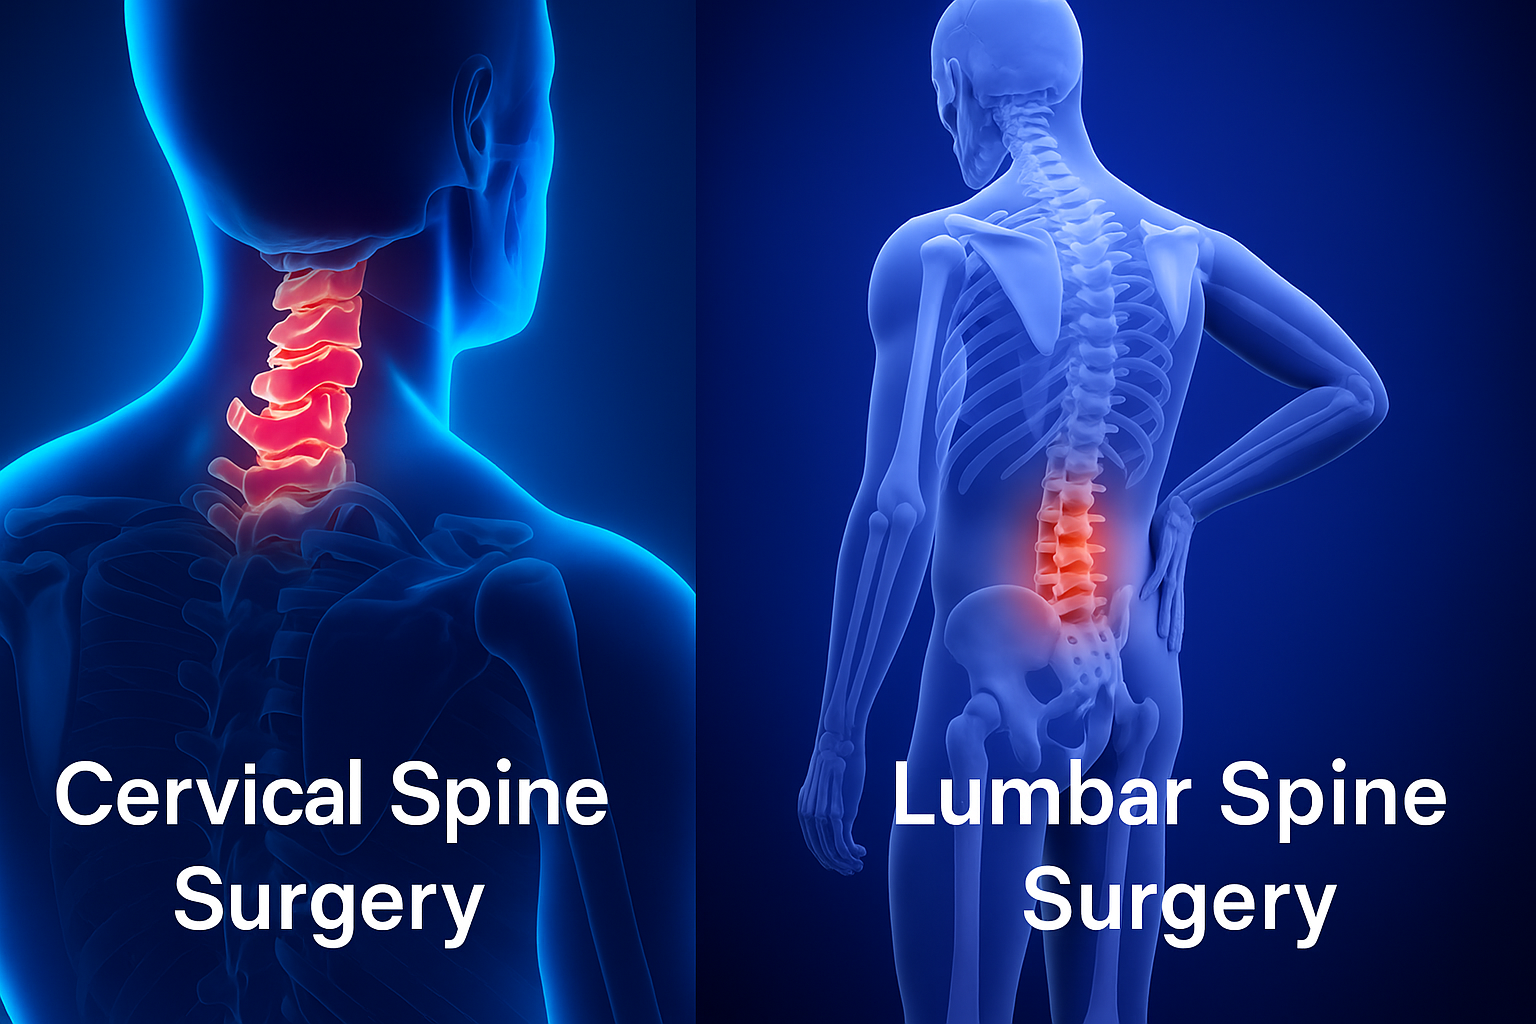
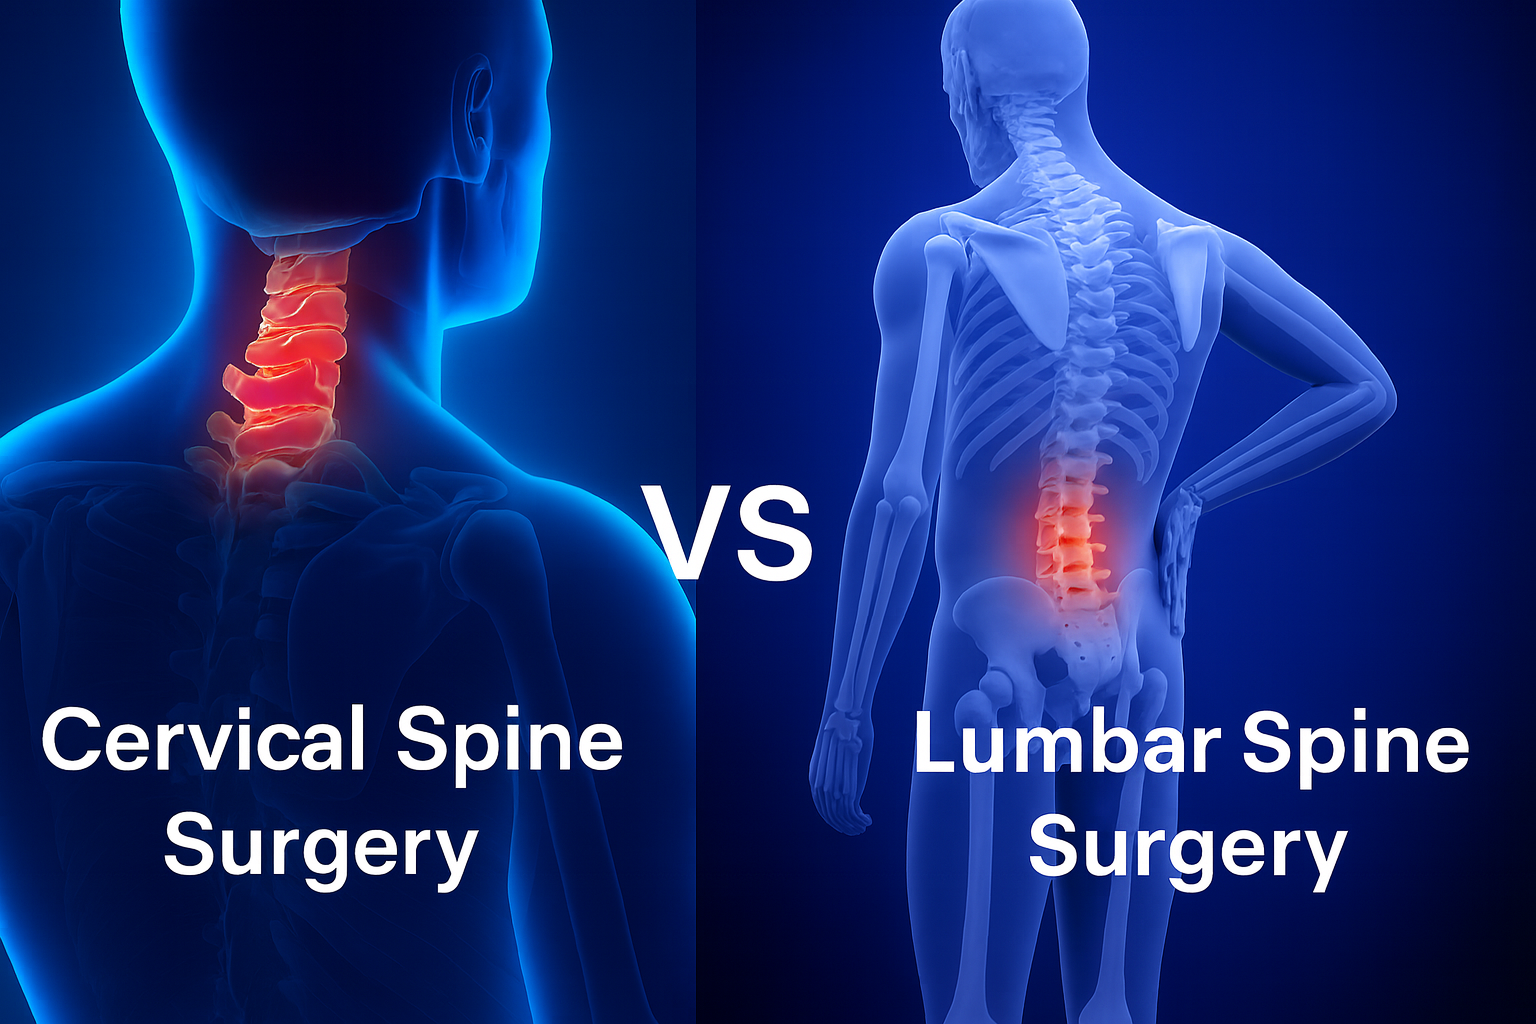
added the interlinks in pages

diff --git a/resources/views/blog/spine-surgery-cost-mumbai.blade.php b/resources/views/blog/spine-surgery-cost-mumbai.blade.php
@@ -99,14 +99,14 @@ Understand spine surgery costs in Mumbai: factors affecting pricing, insurance c
                             <div class="sec-blog-design pt-5">
                                 <h1>Spine Surgery Cost in Mumbai – What Patients Should Know</h1>
                                 <img src="{{ asset('resources/assets/img/blog/spine-surgery-cost-mumbai.png') }}" alt="Spine Surgery Cost in Mumbai">
-                                <p>Understanding the cost of spine surgery is crucial for patients and their families when making informed healthcare decisions. In Mumbai, spine surgery costs can vary significantly based on several factors. This guide provides comprehensive information about spine surgery pricing, what influences costs, and how to access affordable, world-class spine care with Dr. Vishal Kundnani.</p>
+                                <p>Understanding the cost of spine surgery is crucial for patients and their families when making informed healthcare decisions. In Mumbai, spine surgery costs can vary significantly based on several factors. This guide provides comprehensive information about spine surgery pricing, what influences costs, and how to access affordable, world-class spine care with <a href="{{ route('about-doctor') }}">Dr. Vishal Kundnani</a>.</p>
                             </div>
                         </div>
 
                         <div class="sec-blog-design pt-5">
                             <h2>Factors Affecting Spine Surgery Cost in Mumbai</h2>
                             <p>The cost of spine surgery in Mumbai depends on multiple factors:</p>
-                            <p><b>Type of Surgery:</b> Minimally invasive procedures, endoscopic surgery, robotic-assisted surgery, and traditional open surgery have different cost structures.</p>
+                            <p><b>Type of Surgery:</b> <a href="{{ route('minimally-invasive-spine-surgery-mumbai') }}">Minimally invasive procedures</a>, <a href="{{ route('endoscopic-spine-surgery-mumbai') }}">endoscopic surgery</a>, robotic-assisted surgery, and traditional open surgery have different cost structures.</p>
                             <p><b>Hospital Facilities:</b> Premium hospitals with advanced technology and infrastructure may have higher costs but offer superior care and outcomes.</p>
                             <p><b>Surgeon's Expertise:</b> Experienced spine surgeons with specialized training may command higher fees, but their expertise often leads to better outcomes and fewer complications.</p>
                             <p><b>Implants and Equipment:</b> The type of implants, screws, rods, or artificial discs used can significantly impact the total cost.</p>
@@ -116,12 +116,12 @@ Understand spine surgery costs in Mumbai: factors affecting pricing, insurance c
 
                         <div class="sec-blog-design pt-5">
                             <h2>Types of Spine Surgery and Their Cost Range</h2>
-                            <p><b>Minimally Invasive Spine Surgery:</b> These procedures use smaller incisions and advanced technology. While the initial cost may be similar to traditional surgery, patients benefit from shorter hospital stays and faster recovery, potentially reducing overall expenses.</p>
-                            <p><b>Endoscopic Spine Surgery:</b> A highly advanced technique that minimizes tissue damage. Costs are competitive and often offset by reduced recovery time.</p>
+                            <p><b><a href="{{ route('minimally-invasive-spine-surgery-mumbai') }}">Minimally Invasive Spine Surgery</a>:</b> These procedures use smaller incisions and advanced technology. While the initial cost may be similar to traditional surgery, patients benefit from shorter hospital stays and faster recovery, potentially reducing overall expenses.</p>
+                            <p><b><a href="{{ route('endoscopic-spine-surgery-mumbai') }}">Endoscopic Spine Surgery</a>:</b> A highly advanced technique that minimizes tissue damage. Costs are competitive and often offset by reduced recovery time.</p>
                             <p><b>Robotic Spine Surgery:</b> Uses precision robotics for enhanced accuracy. Initial costs may be higher, but precision reduces risks and improves outcomes.</p>
-                            <p><b>Scoliosis Surgery:</b> Complex procedures requiring specialized implants and longer surgery time, typically at a higher cost range.</p>
-                            <p><b>Slip Disc Surgery:</b> Can range from minimally invasive discectomy to complex fusion procedures, with costs varying accordingly.</p>
-                            <p><b>Cervical Spine Surgery:</b> Includes ACDF, disc replacement, or decompression procedures, with costs depending on the complexity.</p>
+                            <p><b><a href="{{ route('scoliosis') }}">Scoliosis Surgery</a>:</b> Complex procedures requiring specialized implants and longer surgery time, typically at a higher cost range.</p>
+                            <p><b><a href="{{ route('herniated-disc') }}">Slip Disc Surgery</a>:</b> Can range from minimally invasive discectomy to complex fusion procedures, with costs varying accordingly.</p>
+                            <p><b><a href="{{ route('cervical-spine-surgery-mumbai') }}">Cervical Spine Surgery</a>:</b> Includes ACDF, disc replacement, or decompression procedures, with costs depending on the complexity.</p>
                         </div>
 
                         <div class="sec-blog-design pt-5">
@@ -136,7 +136,7 @@ Understand spine surgery costs in Mumbai: factors affecting pricing, insurance c
 
                         <div class="sec-blog-design pt-5">
                             <h2>Affordable Spine Surgery Options</h2>
-                            <p>Dr. Vishal Kundnani provides transparent pricing and affordable spine surgery packages in Mumbai. We offer:</p>
+                            <p><a href="{{ route('about-doctor') }}">Dr. Vishal Kundnani</a> provides transparent pricing and affordable spine surgery packages in Mumbai. We offer:</p>
                             <p><b>Transparent Cost Estimates:</b> Detailed cost breakdowns before treatment, with no hidden charges.</p>
                             <p><b>Comprehensive Packages:</b> All-inclusive packages covering surgery, hospital stay, implants, and follow-up care.</p>
                             <p><b>Flexible Payment Options:</b> EMI facilities and payment plans to make treatment accessible.</p>
@@ -183,8 +183,8 @@ Understand spine surgery costs in Mumbai: factors affecting pricing, insurance c
 
                         <div class="sec-blog-design pt-5">
                             <h2>How to Book a Consultation</h2>
-                            <p>If you're considering spine surgery and want to understand the costs involved, schedule a consultation with Dr. Vishal Kundnani.</p>
-                            <p>📞 Call <a href="tel:[phone redacted]">[phone redacted]</a> today to discuss your condition and receive a personalized cost estimate.</p>
+                            <p>If you're considering spine surgery and want to understand the costs involved, schedule a consultation with <a href="{{ route('about-doctor') }}">Dr. Vishal Kundnani</a>.</p>
+                            <p>📞 Call <a href="tel:[phone redacted]">[phone redacted]</a> today – <a href="{{ route('contact') }}">Consult Dr. Vishal Kundnani</a> to discuss your condition and receive a personalized cost estimate.</p>
                         </div>
 
                         <div class="sec-blog-design pt-5">

diff --git a/resources/views/blog/best-hospital-spine-surgery-mumbai.blade.php b/resources/views/blog/best-hospital-spine-surgery-mumbai.blade.php
@@ -124,7 +124,7 @@ Looking for top spine surgery hospitals in Mumbai? Dr. Vishal Kundnani offers ad
                                 <h1>Best Hospital for Spine Surgery in Mumbai – Bombay Hospital & Lilavati Hospital</h1>
                                 <img class="blog-hero-img" src="{{ asset('resources/assets/img/blog/spine-surgery-international-patients-miss.jpg') }}" alt="Best Hospital for Spine Surgery in Mumbai">
                                 <p>Choosing the right hospital for spine surgery is crucial—experienced surgeons, advanced technology, and comprehensive post-operative care significantly impact outcomes. Lilavati Hospital and Bombay Hospital are two of the most trusted centers for world-class spine surgery in Mumbai, offering cutting-edge treatments, modern infrastructure, and highly trained spine specialists.</p>
-                                <p>Dr. Vishal Kundnani, Director & Head of Spine Services at Lilavati & Bombay Hospitals, leads specialized teams delivering safe, precise, and advanced spine care to patients across India.</p>
+                                <p><a href="{{ route('about-doctor') }}">Dr. Vishal Kundnani</a>, Director & Head of Spine Services at Lilavati & Bombay Hospitals, leads specialized teams delivering safe, precise, and advanced spine care to patients across India.</p>
                                 <p>Patients from Mumbai, Delhi, Pune, Nashik, Aurangabad, Thane, Navi Mumbai, Raipur, Indore, Bhopal, Jaipur, and international regions seek treatment under his expertise.</p>
                             </div>
                         </div>
@@ -145,11 +145,11 @@ Looking for top spine surgery hospitals in Mumbai? Dr. Vishal Kundnani offers ad
                             <h3>2. Specialized Spine Units</h3>
                             <p>Dedicated units for:</p>
                             <ul class="icon-bullet-list">
-                                <li>Herniated discs</li>
-                                <li>Spinal stenosis</li>
-                                <li>Scoliosis & kyphosis</li>
-                                <li>Cervical spine disorders</li>
-                                <li>Minimally invasive spine surgery (MISS)</li>
+                                <li><a href="{{ route('herniated-disc') }}">Herniated discs</a></li>
+                                <li><a href="{{ route('spinal-stenosis') }}">Spinal stenosis</a></li>
+                                <li><a href="{{ route('scoliosis') }}">Scoliosis</a> & kyphosis</li>
+                                <li><a href="{{ route('cervical-spine-surgery-mumbai') }}">Cervical spine</a> disorders</li>
+                                <li><a href="{{ route('minimally-invasive-spine-surgery-mumbai') }}">Minimally invasive spine surgery</a> (MISS)</li>
                             </ul>
                             <p>A multidisciplinary team ensures seamless care—from diagnosis to recovery.</p>
 
@@ -200,7 +200,7 @@ Looking for top spine surgery hospitals in Mumbai? Dr. Vishal Kundnani offers ad
                                 <li>Accessible locations and patient assistance services</li>
                             </ul>
                             <p>With personalized clinics in South Mumbai, Bandra, Goregaon & Borivali, consultations are convenient and patient-focused.</p>
-                            <p><b>📞 Call <a href="tel:[phone redacted]">[phone redacted]</a> – Consult Dr. Vishal Kundnani, top spine surgeon in Mumbai & India.</b></p>
+                            <p><b>📞 Call <a href="tel:[phone redacted]">[phone redacted]</a> – <a href="{{ route('contact') }}">Consult Dr. Vishal Kundnani</a>, top spine surgeon in Mumbai & India.</b></p>
                         </div>
 
                         <div class="sec-blog-design pt-5">

diff --git a/resources/views/blog/endoscopic-spine-surgery-mumbai.blade.php b/resources/views/blog/endoscopic-spine-surgery-mumbai.blade.php
@@ -115,9 +115,9 @@ Endoscopic spine surgery in Mumbai by Dr. Vishal Kundnani – minimally invasive
                             <div class="sec-blog-design pt-5">
                                 <h1>Endoscopic Spine Surgery in Mumbai – Benefits & Success Rate</h1>
                                 <img class="blog-hero-img" src="{{ asset('resources/assets/img/blog/endoscopic-spine-surgery.png') }}" alt="Endoscopic Spine Surgery in Mumbai">
-                                <p>Endoscopic spine surgery is one of the most advanced minimally invasive techniques used to treat herniated discs, spinal stenosis, and nerve compression. Through a tiny incision, a high-definition camera and specialized instruments allow surgeons to access the damaged area with minimal muscle disruption.</p>
+                                <p><a href="{{ route('endoscopic-spine-surgery-mumbai') }}">Endoscopic spine surgery</a> is one of the most advanced <a href="{{ route('minimally-invasive-spine-surgery-mumbai') }}">minimally invasive techniques</a> used to treat <a href="{{ route('herniated-disc') }}">herniated discs</a>, <a href="{{ route('spinal-stenosis') }}">spinal stenosis</a>, and nerve compression. Through a tiny incision, a high-definition camera and specialized instruments allow surgeons to access the damaged area with minimal muscle disruption.</p>
                                 <p>This modern technique offers less pain, faster recovery, smaller scars, and quicker return to routine activities compared to traditional open surgery. With robotic navigation and precision imaging, endoscopic procedures deliver excellent long-term outcomes and a high success rate.</p>
-                                <p>Dr. Vishal Kundnani, a leading expert in endoscopic spine surgery, provides advanced, safe, and effective treatments across Mumbai's top hospitals.</p>
+                                <p><a href="{{ route('about-doctor') }}">Dr. Vishal Kundnani</a>, a leading expert in endoscopic spine surgery, provides advanced, safe, and effective treatments across Mumbai's top hospitals.</p>
                             </div>
                         </div>
 
@@ -125,10 +125,10 @@ Endoscopic spine surgery in Mumbai by Dr. Vishal Kundnani – minimally invasive
                             <h2>🔍 What Conditions Can Endoscopic Spine Surgery Treat?</h2>
                             <p>Endoscopic techniques are ideal for:</p>
                             <ul class="icon-bullet-list">
-                                <li>Herniated or slipped discs</li>
-                                <li>Sciatica or nerve root compression</li>
-                                <li>Lumbar canal stenosis</li>
-                                <li>Cervical radiculopathy</li>
+                                <li><a href="{{ route('herniated-disc') }}">Herniated or slipped discs</a></li>
+                                <li><a href="{{ route('sciatica') }}">Sciatica</a> or nerve root compression</li>
+                                <li><a href="{{ route('back-pain') }}">Lumbar</a> canal stenosis</li>
+                                <li><a href="{{ route('cervical-spine-surgery-mumbai') }}">Cervical</a> radiculopathy</li>
                                 <li>Recurrent disc prolapse</li>
                                 <li>Foraminal stenosis</li>
                             </ul>
@@ -179,7 +179,7 @@ Endoscopic spine surgery in Mumbai by Dr. Vishal Kundnani – minimally invasive
                                 <li>Clinics across South Mumbai, Bandra, Goregaon & Borivali</li>
                                 <li>Director & Head of Spine Services at Lilavati & Bombay Hospitals</li>
                             </ul>
-                            <p><b>📞 Call <a href="tel:[phone redacted]">[phone redacted]</a> – Consult Dr. Vishal Kundnani, best endoscopic spine surgeon in Mumbai & India.</b></p>
+                            <p><b>📞 Call <a href="tel:[phone redacted]">[phone redacted]</a> – <a href="{{ route('contact') }}">Consult Dr. Vishal Kundnani</a>, best endoscopic spine surgeon in Mumbai & India.</b></p>
                         </div>
 
                         <div class="sec-blog-design pt-5">

diff --git a/resources/views/blog/cervical-vs-lumbar-spine-surgery.blade.php b/resources/views/blog/cervical-vs-lumbar-spine-surgery.blade.php
@@ -124,9 +124,9 @@ Cervical vs lumbar spine surgery explained by Dr. Vishal Kundnani – minimally 
                                 <h1>Cervical vs Lumbar Spine Surgery – What Patients Must Know</h1>
                                 <img class="blog-hero-img" src="{{ asset('resources/assets/img/blog/cervical-vs-lumbar-spine-surgery.png') }}" alt="Cervical vs Lumbar Spine Surgery">
                                 <p>Cervical and lumbar spine surgeries address different regions of the spine—each with unique symptoms, surgical approaches, and recovery expectations. Understanding these differences helps patients make informed decisions and plan their treatment journey.</p>
-                                <p>Cervical spine surgery treats conditions affecting the neck, such as disc herniation, nerve compression, or cervical spondylosis.</p>
-                                <p>Lumbar spine surgery addresses lower back conditions like herniated discs, spinal stenosis, and sciatica.</p>
-                                <p>Dr. Vishal Kundnani, a leading spine surgeon in India, specializes in both cervical and lumbar procedures using minimally invasive and robotic-assisted techniques for safer, more precise outcomes.</p>
+                                <p><a href="{{ route('cervical-spine-surgery-mumbai') }}">Cervical spine surgery</a> treats conditions affecting the neck, such as disc herniation, nerve compression, or cervical spondylosis.</p>
+                                <p><a href="{{ route('back-pain') }}">Lumbar spine surgery</a> addresses lower back conditions like herniated discs, spinal stenosis, and sciatica.</p>
+                                <p><a href="{{ route('about-doctor') }}">Dr. Vishal Kundnani</a>, a leading spine surgeon in India, specializes in both cervical and lumbar procedures using minimally invasive and robotic-assisted techniques for safer, more precise outcomes.</p>
                             </div>
                         </div>
 
@@ -245,11 +245,11 @@ Cervical vs lumbar spine surgery explained by Dr. Vishal Kundnani – minimally 
                                 <li>Clinics in South Mumbai, Bandra, Goregaon, Borivali</li>
                                 <li>Director & Head of Spine Services at Lilavati & Bombay Hospitals</li>
                             </ul>
-                            <p><b>📞 Call <a href="tel:[phone redacted]">[phone redacted]</a> – Consult Dr. Vishal Kundnani, top spine surgeon in Mumbai & India.</b></p>
+                            <p><b>📞 Call <a href="tel:[phone redacted]">[phone redacted]</a> – <a href="{{ route('contact') }}">Consult Dr. Vishal Kundnani</a>, top spine surgeon in Mumbai & India.</b></p>
                         </div>
 
                         <div class="sec-blog-design pt-5">
-                            <h2> FAQ – Cervical vs Lumbar Spine Surgery</h2>
+                            <h2>FAQ – Cervical vs Lumbar Spine Surgery</h2>
                             <ol class="pl-2">
                                 <li><b>What is the difference between cervical and lumbar spine surgery?</b> <br> Cervical surgery treats neck-related conditions, while lumbar surgery focuses on lower back and leg pain.</li>
                                 <li><b>Which surgery has faster recovery?</b> <br> Recovery depends on the procedure, but minimally invasive cervical surgeries often have quicker recovery times.</li>

diff --git a/resources/views/blog/spine-surgery-recovery-time.blade.php b/resources/views/blog/spine-surgery-recovery-time.blade.php
@@ -131,8 +131,8 @@ Spine surgery recovery explained by Dr. Vishal Kundnani – fast recovery with m
                             <div class="sec-blog-design pt-5">
                                 <h1>Spine Surgery Recovery Time – What Patients Can Expect</h1>
                                 <img class="blog-hero-img" src="{{ asset('resources/assets/img/blog/spine-surgery-recovery-time2.png') }}" alt="Spine Surgery Recovery Time">
-                                <p>Spine surgery recovery varies depending on the type of procedure, overall health, age, and the severity of the condition. With advancements in minimally invasive spine surgery (MISS) and robotic-assisted techniques, many patients now experience significantly faster and smoother recovery than ever before.</p>
-                                <p>Dr. Vishal Kundnani ensures customized post-operative care plans that help patients regain mobility safely and return to daily activities with confidence.</p>
+                                <p>Spine surgery recovery varies depending on the type of procedure, overall health, age, and the severity of the condition. With advancements in <a href="{{ route('minimally-invasive-spine-surgery-mumbai') }}">minimally invasive spine surgery</a> (MISS) and robotic-assisted techniques, many patients now experience significantly faster and smoother recovery than ever before.</p>
+                                <p><a href="{{ route('about-doctor') }}">Dr. Vishal Kundnani</a> ensures customized post-operative care plans that help patients regain mobility safely and return to daily activities with confidence.</p>
                                 <p>Understanding expected recovery timelines helps patients prepare for work, home responsibilities, physiotherapy, and follow-up visits.</p>
                             </div>
                         </div>
@@ -197,7 +197,7 @@ Spine surgery recovery explained by Dr. Vishal Kundnani – fast recovery with m
 
                         <div class="sec-blog-design pt-5">
                             <h2>🏥 Post-Operative Care & Rehabilitation</h2>
-                            <p>Dr. Vishal Kundnani's structured recovery program includes:</p>
+                            <p><a href="{{ route('about-doctor') }}">Dr. Vishal Kundnani</a>'s structured recovery program includes:</p>
                             <ul class="icon-bullet-list">
                                 <li>Early mobility plans</li>
                                 <li>Pain management</li>
@@ -207,7 +207,7 @@ Spine surgery recovery explained by Dr. Vishal Kundnani – fast recovery with m
                                 <li>Scheduled follow-up evaluations</li>
                             </ul>
                             <p>Patients receive care across Lilavati, Bombay, Breach Candy & Saifee Hospitals, with consultation clinics located in South Mumbai, Bandra, Goregaon, and Borivali.</p>
-                            <p><b>📞 Call <a href="tel:[phone redacted]">[phone redacted]</a> – Consult Dr. Vishal Kundnani, best spine surgeon in Mumbai & India.</b></p>
+                            <p><b>📞 Call <a href="tel:[phone redacted]">[phone redacted]</a> – <a href="{{ route('contact') }}">Consult Dr. Vishal Kundnani</a>, best spine surgeon in Mumbai & India.</b></p>
                         </div>
 
                         <div class="sec-blog-design pt-5">
@@ -232,7 +232,7 @@ Spine surgery recovery explained by Dr. Vishal Kundnani – fast recovery with m
                                 <li><b>When can I return to work after spine surgery?</b> <br> Light office work: 1–2 weeks. Physically demanding work: 6–12 weeks, depending on your procedure.</li>
                                 <li><b>Does robotic spine surgery improve recovery?</b> <br> Yes. Accuracy and reduced tissue trauma result in faster, safer healing.</li>
                                 <li><b>Where can I get post-operative care?</b> <br> At Lilavati, Bombay, Breach Candy, Saifee Hospitals, and clinics in South Mumbai, Bandra, Goregaon, Borivali.</li>
-                                <li><b>How do I book a consultation with Dr. Vishal Kundnani?</b> <br>📞 Call <a href="tel:[phone redacted]">[phone redacted]</a> for a complete evaluation and recovery planning.</li>
+                                <li><b>How do I book a consultation with <a href="{{ route('about-doctor') }}">Dr. Vishal Kundnani</a>?</b> <br>📞 Call <a href="tel:[phone redacted]">[phone redacted]</a> for a complete evaluation and recovery planning.</li>
                             </ol>
                         </div>
 

diff --git a/resources/views/blog/minimally-invasive-vs-open-spine-surgery.blade.php b/resources/views/blog/minimally-invasive-vs-open-spine-surgery.blade.php
@@ -131,8 +131,8 @@ Compare minimally invasive vs open spine surgery in India with Dr. Vishal Kundna
                             <div class="sec-blog-design pt-5">
                                 <h1>Minimally Invasive Spine Surgery vs Open Surgery – Which Is Better?</h1>
                                 <img class="blog-hero-img" src="{{ asset('resources\assets\img\blog\open-spine-surgery.png') }}" alt="Minimally Invasive vs Open Spine Surgery">
-                                <p>Spine surgery has advanced significantly over the last decade, giving patients safer, less painful, and faster recovery options. The two main approaches are Minimally Invasive Spine Surgery (MISS) and Open Spine Surgery. While MISS uses small incisions and targets damaged areas with minimal disruption, open surgery involves larger cuts and wider exposure of the spine.</p>
-                                <p>Dr. Vishal Kundnani, one of India's leading spine surgeons, offers both MISS and open spine surgery, selecting the most appropriate technique based on each patient's condition, spine anatomy, and long-term expectations.</p>
+                                <p>Spine surgery has advanced significantly over the last decade, giving patients safer, less painful, and faster recovery options. The two main approaches are <a href="{{ route('minimally-invasive-spine-surgery-mumbai') }}">Minimally Invasive Spine Surgery</a> (MISS) and Open Spine Surgery. While MISS uses small incisions and targets damaged areas with minimal disruption, open surgery involves larger cuts and wider exposure of the spine.</p>
+                                <p><a href="{{ route('about-doctor') }}">Dr. Vishal Kundnani</a>, one of India's leading spine surgeons, offers both MISS and open spine surgery, selecting the most appropriate technique based on each patient's condition, spine anatomy, and long-term expectations.</p>
                             </div>
                         </div>
 
@@ -149,7 +149,7 @@ Compare minimally invasive vs open spine surgery in India with Dr. Vishal Kundna
                                 <li>Reduced risk of infection</li>
                                 <li>Early return to routine activities</li>
                             </ul>
-                            <p>MISS is highly effective for conditions such as herniated discs, spinal stenosis, spondylolisthesis, scoliosis (selected cases), and nerve compression.</p>
+                            <p>MISS is highly effective for conditions such as <a href="{{ route('herniated-disc') }}">herniated discs</a>, <a href="{{ route('spinal-stenosis') }}">spinal stenosis</a>, spondylolisthesis, <a href="{{ route('scoliosis') }}">scoliosis</a> (selected cases), and nerve compression.</p>
                         </div>
 
                         <div class="sec-blog-design pt-5">
@@ -210,7 +210,7 @@ Compare minimally invasive vs open spine surgery in India with Dr. Vishal Kundna
                                 <li>Clinics in South Mumbai, Bandra, Goregaon & Borivali</li>
                                 <li>Director & Head of Spine Services at Lilavati & Bombay Hospitals</li>
                             </ul>
-                            <p><b>📞 Call <a href="tel:[phone redacted]">[phone redacted]</a> – Consult Dr. Vishal Kundnani, best spine surgeon in India.</b></p>
+                            <p><b>📞 Call <a href="tel:[phone redacted]">[phone redacted]</a> – <a href="{{ route('contact') }}">Consult Dr. Vishal Kundnani</a>, best spine surgeon in India.</b></p>
                         </div>
 
                         <div class="sec-blog-design pt-5">

diff --git a/resources/views/blog/cervical-disc-disease-treatment-india.blade.php b/resources/views/blog/cervical-disc-disease-treatment-india.blade.php
@@ -131,8 +131,8 @@ Cervical disc disease & neck pain treatment in India by Dr. Vishal Kundnani – 
                             <div class="sec-blog-design pt-5">
                                 <h1>Neck Pain & Cervical Disc Disease – Best Treatment in India</h1>
                                 <img class="blog-hero-img" src="{{ asset('resources/assets/img/blog/neck-pain2.jpg') }}" alt="Neck Pain & Cervical Disc Disease Treatment in India">
-                                <p>Neck pain is one of the most common spine-related problems affecting adults of all ages. It may result from cervical disc degeneration, disc herniation, nerve compression, or age-related spinal changes. Symptoms often include stiffness, radiating arm pain, tingling, numbness, or weakness. Early evaluation helps identify the exact cause and prevents long-term complications.</p>
-                                <p>Dr. Vishal Kundnani, one of India's leading cervical spine specialists, offers advanced non-surgical and minimally invasive treatments for cervical disc disease and chronic neck pain. His expertise, combined with precision technology, ensures safe, effective, and long-lasting relief for patients across India.</p>
+                                <p>Neck pain is one of the most common spine-related problems affecting adults of all ages. It may result from <a href="{{ route('cervical-spine-surgery-mumbai') }}">cervical</a> disc degeneration, disc herniation, nerve compression, or age-related spinal changes. Symptoms often include stiffness, radiating arm pain, tingling, numbness, or weakness. Early evaluation helps identify the exact cause and prevents long-term complications.</p>
+                                <p><a href="{{ route('about-doctor') }}">Dr. Vishal Kundnani</a>, one of India's leading cervical spine specialists, offers advanced non-surgical and <a href="{{ route('minimally-invasive-spine-surgery-mumbai') }}">minimally invasive treatments</a> for cervical disc disease and chronic neck pain. His expertise, combined with precision technology, ensures safe, effective, and long-lasting relief for patients across India.</p>
                             </div>
                         </div>
 
@@ -217,7 +217,7 @@ Cervical disc disease & neck pain treatment in India by Dr. Vishal Kundnani – 
                                 <li>Personal clinics in South Mumbai, Bandra, Goregaon & Borivali</li>
                                 <li>Director & Head of Spine Services at Lilavati & Bombay Hospitals</li>
                             </ul>
-                            <p><b>📞 Call <a href="tel:[phone redacted]">[phone redacted]</a> – Consult Dr. Vishal Kundnani, top cervical spine specialist in India.</b></p>
+                            <p><b>📞 Call <a href="tel:[phone redacted]">[phone redacted]</a> – <a href="{{ route('contact') }}">Consult Dr. Vishal Kundnani</a>, top cervical spine specialist in India.</b></p>
                         </div>
 
                         <div class="sec-blog-design pt-5">

diff --git a/resources/views/blog/heriated-disc.blade.php b/resources/views/blog/heriated-disc.blade.php
@@ -131,8 +131,8 @@ Herniated disc treatment in India by Dr. Vishal Kundnani – minimally invasive,
                             <div class="sec-blog-design pt-5">
                                 <h1>Herniated Disc – Symptoms, Diagnosis & Latest Treatments in India</h1>
                                 <img class="blog-hero-img" src="{{ asset('resources/assets/img/blog/heriated-disc2.png') }}" alt="Herniated Disc Treatment in India">
-                                <p>A herniated disc, commonly known as a slipped or ruptured disc, occurs when the soft inner portion of the spinal disc bulges out and compresses nearby nerves. This can lead to back pain, radiating leg pain (sciatica), numbness, tingling, or even muscle weakness. Early diagnosis and timely treatment are essential to prevent long-term nerve damage.</p>
-                                <p>Dr. Vishal Kundnani, one of India's leading spine surgeons, offers advanced, minimally invasive, and endoscopic treatments for herniated disc conditions at top hospitals across Mumbai.</p>
+                                <p>A <a href="{{ route('herniated-disc') }}">herniated disc</a>, commonly known as a slipped or ruptured disc, occurs when the soft inner portion of the spinal disc bulges out and compresses nearby nerves. This can lead to back pain, radiating leg pain (<a href="{{ route('sciatica') }}">sciatica</a>), numbness, tingling, or even muscle weakness. Early diagnosis and timely treatment are essential to prevent long-term nerve damage.</p>
+                                <p><a href="{{ route('about-doctor') }}">Dr. Vishal Kundnani</a>, one of India's leading spine surgeons, offers advanced, <a href="{{ route('minimally-invasive-spine-surgery-mumbai') }}">minimally invasive</a>, and <a href="{{ route('endoscopic-spine-surgery-mumbai') }}">endoscopic</a> treatments for herniated disc conditions at top hospitals across Mumbai.</p>
                             </div>
                         </div>
 
@@ -216,7 +216,7 @@ Herniated disc treatment in India by Dr. Vishal Kundnani – minimally invasive,
                                 <li>Clinics across South Mumbai, Bandra, Goregaon & Borivali</li>
                                 <li>Director & Head of Spine Services at Lilavati & Bombay Hospitals</li>
                             </ul>
-                            <p><b>📞 Call <a href="tel:[phone redacted]">[phone redacted]</a> – Consult Dr. Vishal Kundnani, India's leading herniated disc surgeon.</b></p>
+                            <p><b>📞 Call <a href="tel:[phone redacted]">[phone redacted]</a> – <a href="{{ route('contact') }}">Consult Dr. Vishal Kundnani</a>, India's leading herniated disc surgeon.</b></p>
                         </div>
 
                         <div class="sec-blog-design pt-5">

diff --git a/resources/views/blog/sciatica-pain-treatment-mumbai.blade.php b/resources/views/blog/sciatica-pain-treatment-mumbai.blade.php
@@ -131,8 +131,8 @@ Sciatica treatment in Mumbai by Dr. Vishal Kundnani – non-surgical & minimally
                             <div class="sec-blog-design pt-5">
                                 <h1>Sciatica Pain Treatment in Mumbai – Latest & Effective Options</h1>
                                 <img class="blog-hero-img" src="{{ asset('resources\assets\img\blog\sciatica-pain-treatment-mumbai2.png') }}" alt="Sciatica Pain Treatment in Mumbai">
-                                <p>Sciatica is a common condition caused by compression or irritation of the sciatic nerve, usually due to a herniated disc, spinal stenosis, or degenerative spine changes. It leads to sharp leg pain, numbness, tingling, or weakness that radiates from the lower back down to the leg.</p>
-                                <p>Early diagnosis is essential to prevent chronic pain and nerve damage. Dr. Vishal Kundnani, a leading spine specialist in India, offers comprehensive sciatica treatment—from conservative care to advanced minimally invasive and endoscopic procedures—ensuring faster relief and long-term recovery.</p>
+                                <p><a href="{{ route('sciatica') }}">Sciatica</a> is a common condition caused by compression or irritation of the sciatic nerve, usually due to a <a href="{{ route('herniated-disc') }}">herniated disc</a>, <a href="{{ route('spinal-stenosis') }}">spinal stenosis</a>, or degenerative spine changes. It leads to sharp leg pain, numbness, tingling, or weakness that radiates from the lower back down to the leg.</p>
+                                <p>Early diagnosis is essential to prevent chronic pain and nerve damage. <a href="{{ route('about-doctor') }}">Dr. Vishal Kundnani</a>, a leading spine specialist in India, offers comprehensive sciatica treatment—from conservative care to advanced <a href="{{ route('minimally-invasive-spine-surgery-mumbai') }}">minimally invasive</a> and <a href="{{ route('endoscopic-spine-surgery-mumbai') }}">endoscopic</a> procedures—ensuring faster relief and long-term recovery.</p>
                             </div>
                         </div>
 
@@ -229,7 +229,7 @@ Sciatica treatment in Mumbai by Dr. Vishal Kundnani – non-surgical & minimally
                                 <li>Clinics in South Mumbai, Bandra, Goregaon & Borivali</li>
                                 <li>Director & Head of Spine Services at Lilavati & Bombay Hospitals</li>
                             </ul>
-                            <p><b>📞 Call <a href="tel:[phone redacted]">[phone redacted]</a> – Consult Dr. Vishal Kundnani, best sciatica specialist in India.</b></p>
+                            <p><b>📞 Call <a href="tel:[phone redacted]">[phone redacted]</a> – <a href="{{ route('contact') }}">Consult Dr. Vishal Kundnani</a>, best sciatica specialist in India.</b></p>
                         </div>
 
                         <div class="sec-blog-design pt-5">

diff --git a/resources/views/blog/scoliosis-specialist-india.blade.php b/resources/views/blog/scoliosis-specialist-india.blade.php
@@ -131,8 +131,8 @@ Top scoliosis specialist in India – Dr. Vishal Kundnani provides minimally inv
                             <div class="sec-blog-design pt-5">
                                 <h1>Scoliosis Specialist in India – Why Choose Dr. Vishal Kundnani</h1>
                                 <img class="blog-hero-img" src="{{ asset('resources/assets/img/blog/scoliosis-signs-img.jpg') }}" alt="Scoliosis Specialist in India">
-                                <p>Scoliosis is an abnormal curvature of the spine that can affect posture, mobility, and overall quality of life. Proper management requires early detection, continuous monitoring, and the right treatment approach based on curve severity. Mild cases often respond well to bracing and physiotherapy, whereas progressive or severe curves may require surgical correction.</p>
-                                <p>Dr. Vishal Kundnani is widely recognized as one of India's top scoliosis specialists. With expertise in minimally invasive scoliosis correction, deformity surgery, robotic-assisted techniques, and personalized treatment planning, he provides world-class care across Mumbai and India.</p>
+                                <p><a href="{{ route('scoliosis') }}">Scoliosis</a> is an abnormal curvature of the spine that can affect posture, mobility, and overall quality of life. Proper management requires early detection, continuous monitoring, and the right treatment approach based on curve severity. Mild cases often respond well to bracing and physiotherapy, whereas progressive or severe curves may require surgical correction.</p>
+                                <p><a href="{{ route('about-doctor') }}">Dr. Vishal Kundnani</a> is widely recognized as one of India's top scoliosis specialists. With expertise in <a href="{{ route('minimally-invasive-spine-surgery-mumbai') }}">minimally invasive</a> scoliosis correction, deformity surgery, robotic-assisted techniques, and personalized treatment planning, he provides world-class care across Mumbai and India.</p>
                                 <p>Patients from Mumbai, Delhi, Pune, Nashik, Indore, Raipur, Bhopal, Jaipur, and other cities consult him for expert evaluation, accurate diagnosis, and corrective spine surgery.</p>
                             </div>
                         </div>
@@ -217,7 +217,7 @@ Top scoliosis specialist in India – Dr. Vishal Kundnani provides minimally inv
                                 <li>Clinics in South Mumbai, Bandra, Goregaon & Borivali</li>
                                 <li>Director & Head of Spine Services at Lilavati & Bombay Hospitals</li>
                             </ul>
-                            <p><b>📞 Call <a href="tel:[phone redacted]">[phone redacted]</a> – Consult Dr. Vishal Kundnani, best scoliosis specialist in India.</b></p>
+                            <p><b>📞 Call <a href="tel:[phone redacted]">[phone redacted]</a> – <a href="{{ route('contact') }}">Consult Dr. Vishal Kundnani</a>, best scoliosis specialist in India.</b></p>
                         </div>
 
                         <div class="sec-blog-design pt-5">

diff --git a/resources/views/blog/spinal-stenosis-treatment-mumbai.blade.php b/resources/views/blog/spinal-stenosis-treatment-mumbai.blade.php
@@ -131,8 +131,8 @@ Spinal stenosis treatment in Mumbai – Dr. Vishal Kundnani provides minimally i
                             <div class="sec-blog-design pt-5">
                                 <h1>Spinal Stenosis Treatment in Mumbai – Non-Surgical & Surgical Care</h1>
                                 <img class="blog-hero-img" src="{{ asset('resources\assets\img\blog\spinal-stenosis-treatment-mumbai.png') }}" alt="Spinal Stenosis Treatment in Mumbai">
-                                <p>Spinal stenosis occurs when the spinal canal becomes narrowed, putting pressure on the spinal cord and nerves. This leads to symptoms such as back pain, leg weakness, tingling, numbness, and difficulty walking. Early evaluation is crucial to prevent progressive nerve damage and mobility issues.</p>
-                                <p>Dr. Vishal Kundnani, a leading spine surgeon in India, provides world-class spinal stenosis treatment using both non-surgical therapies and advanced minimally invasive surgical techniques. His approach ensures precision, safety, and faster recovery for patients across Mumbai and India.</p>
+                                <p><a href="{{ route('spinal-stenosis') }}">Spinal stenosis</a> occurs when the spinal canal becomes narrowed, putting pressure on the spinal cord and nerves. This leads to symptoms such as back pain, leg weakness, tingling, numbness, and difficulty walking. Early evaluation is crucial to prevent progressive nerve damage and mobility issues.</p>
+                                <p><a href="{{ route('about-doctor') }}">Dr. Vishal Kundnani</a>, a leading spine surgeon in India, provides world-class spinal stenosis treatment using both non-surgical therapies and advanced <a href="{{ route('minimally-invasive-spine-surgery-mumbai') }}">minimally invasive surgical techniques</a>. His approach ensures precision, safety, and faster recovery for patients across Mumbai and India.</p>
                             </div>
                         </div>
 
@@ -209,7 +209,7 @@ Spinal stenosis treatment in Mumbai – Dr. Vishal Kundnani provides minimally i
                                 <li>Clinics in South Mumbai, Bandra, Goregaon, Borivali</li>
                                 <li>Director & Head of Spine Services at Lilavati & Bombay Hospitals</li>
                             </ul>
-                            <p><b>📞 Call <a href="tel:[phone redacted]">[phone redacted]</a> – Consult Dr. Vishal Kundnani, leading spinal stenosis specialist in India.</b></p>
+                            <p><b>📞 Call <a href="tel:[phone redacted]">[phone redacted]</a> – <a href="{{ route('contact') }}">Consult Dr. Vishal Kundnani</a>, leading spinal stenosis specialist in India.</b></p>
                         </div>
 
                         <div class="sec-blog-design pt-5">